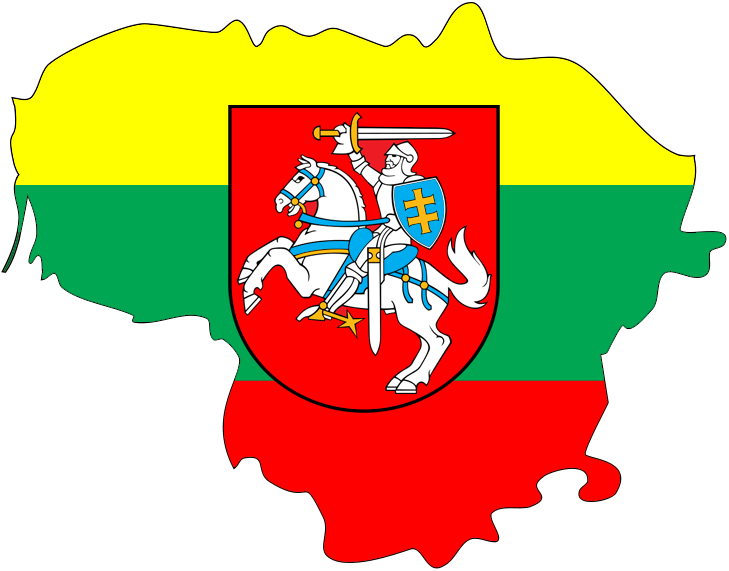
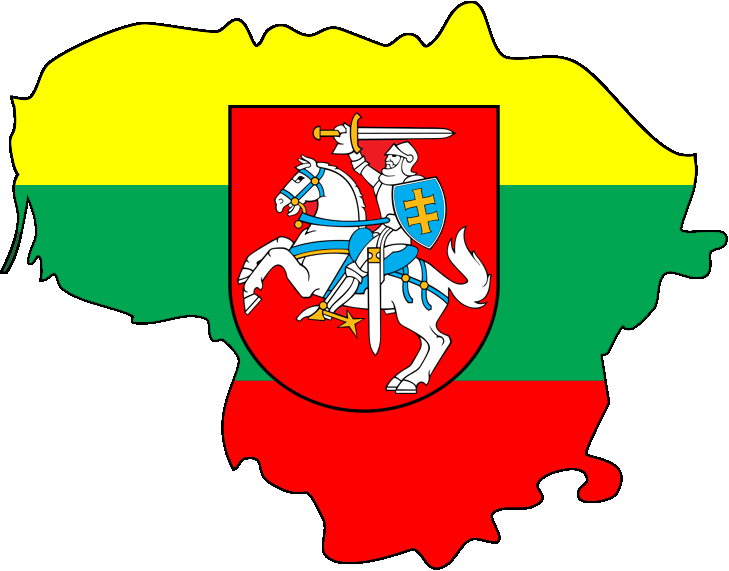
Image changes

diff --git a/facts.html b/facts.html
@@ -56,7 +56,7 @@
                 </tr>
             </table>
 
-            <img src="Vilnius.jpg" id="vilnius" class="centeredimg" style="padding-top: 20px; padding-bottom: 20px;" width="750">
+            <img src="Vilnius.jpg" id="vilnius" class="centeredimg" style="margin-top: 20px; margin-bottom: 20px;" width="750">
 
 
             <div class="container" style="padding-top: 30px; margin-bottom: 40px;">

diff --git a/stylesheet.css b/stylesheet.css
@@ -101,6 +101,9 @@ th {
     padding-top: 20px;
     padding-bottom: 20px;
 }
+#vilnius {
+    border: 1px solid #021a40;
+}
 
 @media screen and (max-width: 768px){
     #splash{
@@ -129,7 +132,7 @@ th {
         height: auto;
     }
     #regions {
-        max-width: 580px;
+        max-width: 360px;
         min-width: 300px;
         width: 100%;
         height: auto;
